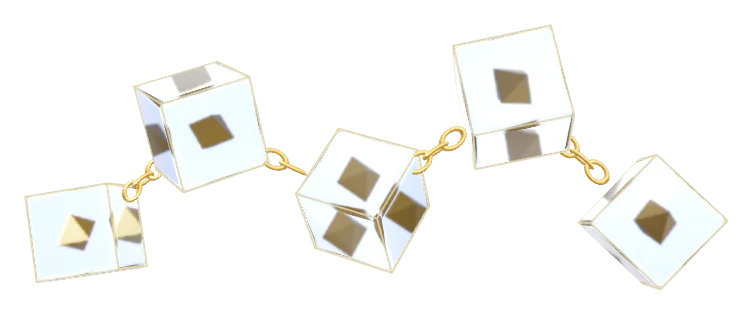
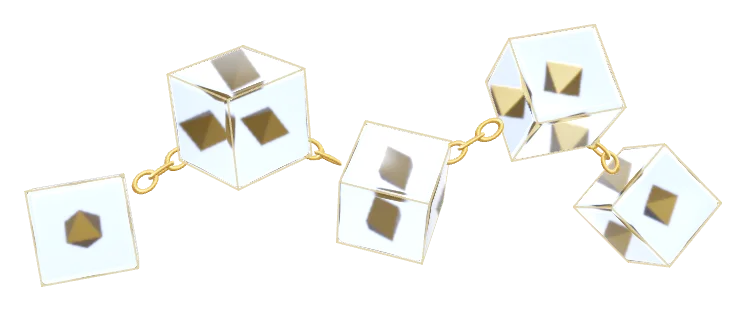
Film polish (no mirrored N in the intro, softer bloom, larger captions), shield glow anchored, stills regenerated
Claude-Session: https://claude.ai/code/session_01MBxK5qE3kLmDt2fofieVqC

Changed region(s): [[0.0308, 0.0579, 0.9866, 0.926], [0.8324, 0.3183, 0.8633, 0.3473]]

diff --git a/src/components/film/FilmCanvas.tsx b/src/components/film/FilmCanvas.tsx
@@ -12,10 +12,10 @@ import { Particles } from "@/components/three/HeroCanvas";
 import { Model, SceneRig, type ModelKey } from "@/components/three/Scene";
 import { BRAND, introSeg, scroll, startIntro } from "@/components/three/runtime";
 
-type Shot = { key: ModelKey | "end"; from: number; to: number; cam: [[number, number, number], [number, number, number]]; kicker?: string; title?: string; sub?: string };
+type Shot = { key: ModelKey | "end"; from: number; to: number; cam: [[number, number, number], [number, number, number]]; look?: number; kicker?: string; title?: string; sub?: string };
 
 export const SHOTS: Shot[] = [
-  { key: "hero", from: 0, to: 6.8, cam: [[-1.4, -0.5, 3.2], [0, 0, 6.6]] },
+  { key: "hero", from: 0, to: 6.8, cam: [[-1.4, -0.5, 3.6], [0, 0, 8.2]], look: -0.55 },
   { key: "blockchain", from: 6.8, to: 10.4, cam: [[1.6, 0.6, 5.2], [-0.3, 0.1, 6.4]], kicker: "Blockchain", title: "Exchanges, ledgers and the chains that bind them", sub: "Spot & P2P exchanges · custody-aware wallets · smart contracts" },
   { key: "security", from: 10.4, to: 14.0, cam: [[-0.6, -0.3, 4.4], [0.4, 0.1, 5.8]], kicker: "Cybersecurity", title: "Secured before it ships", sub: "VAPT · secure architecture · compliance-ready audits" },
   { key: "software", from: 14.0, to: 17.6, cam: [[-1.8, 1.2, 5.6], [0.2, 0.4, 6.6]], kicker: "Custom software", title: "Software shaped around your business", sub: "Web platforms · iOS & Android apps · fintech back offices" },
@@ -43,13 +43,13 @@ function Director({ vertical }: { vertical: boolean }) {
     const [a, b] = shot.cam;
     const zf = vertical ? 1.75 : 1; // narrower frame: pull back
     camera.position.set(a[0] + (b[0] - a[0]) * k, a[1] + (b[1] - a[1]) * k, (a[2] + (b[2] - a[2]) * k) * zf);
-    camera.lookAt(0, shot.key === "end" ? 0.55 : 0, 0);
+    camera.lookAt(0, shot.key === "end" ? 0.55 : (shot.look ?? 0) * k, 0);
     gl.toneMappingExposure = shot.key === "hero" ? 0.05 + 0.95 * introSeg(t, 0, 1.6) : 1;
     if (sweep.current) {
       const local = t - shot.from;
       const s = Math.min(1, Math.max(0, (local - 0.2) / 2.4));
       sweep.current.position.set(-3 + s * 6, 1.4 - s * 1.8, 1.8);
-      sweep.current.intensity = Math.sin(s * Math.PI) * (shot.key === "hero" ? 60 : 38);
+      sweep.current.intensity = Math.sin(s * Math.PI) * (shot.key === "hero" ? 40 : 22);
     }
     if (shot.key === "exchange") scroll.exchange = k;
   });
@@ -105,16 +105,16 @@ function Overlay({ vertical }: { vertical: boolean }) {
       {shot.key === "hero" && (
         <div className={`absolute inset-x-0 bottom-0 flex flex-col items-center ${vertical ? "pb-56" : "pb-20"}`}>
           <p style={rise(4.3)} className={`font-display font-semibold tracking-[0.5em] ${vertical ? "text-5xl" : "text-4xl"}`}>NUVSERA</p>
-          <p style={rise(4.7)} className="mt-4 text-sm tracking-[0.42em] text-gold">TECHNOLOGY PRIVATE LIMITED</p>
+          <p style={rise(4.7)} className="mt-4 text-xl tracking-[0.42em] text-gold">TECHNOLOGY PRIVATE LIMITED</p>
         </div>
       )}
       {shot.title && (
         <div className={`absolute inset-x-0 bottom-0 ${pad} ${vertical ? "text-center" : ""}`}>
-          <p style={rise(0.3)} className={`inline-flex items-center gap-4 text-sm font-semibold uppercase tracking-[0.4em] text-gold ${vertical ? "justify-center" : ""}`}>
+          <p style={rise(0.3)} className={`inline-flex items-center gap-4 text-xl font-semibold uppercase tracking-[0.4em] text-gold ${vertical ? "justify-center" : ""}`}>
             <span className="h-px w-10 bg-gold" /> {shot.kicker}
           </p>
           <h2 style={rise(0.5)} className={`mt-5 font-serif font-medium leading-[1.02] ${vertical ? "text-7xl" : "max-w-5xl text-[5.5rem]"}`}>{shot.title}</h2>
-          <p style={rise(0.8)} className={`mt-6 tracking-wide text-muted ${vertical ? "text-2xl" : "text-2xl"}`}>{shot.sub}</p>
+          <p style={rise(0.8)} className="mt-6 text-3xl tracking-wide text-ivory/70">{shot.sub}</p>
         </div>
       )}
       {shot.key === "end" && (
@@ -122,9 +122,9 @@ function Overlay({ vertical }: { vertical: boolean }) {
           <h2 style={rise(0.4)} className={`font-serif font-medium leading-[1.02] ${vertical ? "text-7xl" : "text-8xl"}`}>
             Technology for <em className="text-gold-gradient">secure digital finance</em>
           </h2>
-          <p style={rise(1.0)} className="mt-8 text-sm uppercase tracking-[0.42em] text-muted">Custom Software · Blockchain · Cybersecurity</p>
+          <p style={rise(1.0)} className="mt-8 text-xl uppercase tracking-[0.42em] text-ivory/70">Custom Software · Blockchain · Cybersecurity</p>
           <p style={rise(1.6)} className={`mt-10 font-serif text-gold-gradient ${vertical ? "text-6xl" : "text-5xl"}`}>+91 97343 33355</p>
-          <p style={rise(1.9)} className="mt-3 text-lg tracking-[0.3em] text-ivory/80">NUVSERATECHNOLOGY.COM · KOLKATA</p>
+          <p style={rise(1.9)} className="mt-4 text-2xl tracking-[0.3em] text-ivory/80">NUVSERATECHNOLOGY.COM · KOLKATA</p>
         </div>
       )}
       <div className="absolute inset-0 bg-navy" style={{ opacity: Math.max(black, tail) }} />
@@ -162,7 +162,7 @@ export default function FilmCanvas({ vertical = false }: { vertical?: boolean })
           <ShotModels />
         </group>
         <EffectComposer multisampling={4}>
-          <Bloom mipmapBlur luminanceThreshold={0.85} luminanceSmoothing={0.2} intensity={0.7} radius={0.7} />
+          <Bloom mipmapBlur luminanceThreshold={0.92} luminanceSmoothing={0.15} intensity={0.42} radius={0.6} />
           <Vignette eskil={false} offset={0.2} darkness={0.7} />
         </EffectComposer>
       </Canvas>

diff --git a/src/components/three/models/Crest.tsx b/src/components/three/models/Crest.tsx
@@ -66,8 +66,9 @@ export function Crest({ quality = "high", interactive = false, scrollKey }: { qu
     const drop = introSeg(it, 2.5, 3.3);
     if (tickRef.current) tickRef.current.rotation.z = (1 - ticksIn) * -Math.PI * 0.75;
     if (nFront.current && nBack.current) {
-      nFront.current.position.z = 0.1 - (1 - nUp) * 0.16;
-      nBack.current.position.z = -0.1 + (1 - nUp) * 0.16;
+      // Rise out of the medallion face; front and back letters never cross (no mirrored "N").
+      nFront.current.position.z = 0.1 - (1 - nUp) * 0.07;
+      nBack.current.position.z = -0.1 + (1 - nUp) * 0.07;
       nFront.current.scale.setScalar(0.82 + nUp * 0.18);
       nBack.current.scale.setScalar(0.82 + nUp * 0.18);
     }

diff --git a/src/components/three/models/Shield.tsx b/src/components/three/models/Shield.tsx
@@ -119,8 +119,8 @@ export function Shield({ quality = "high" }: { quality?: Quality }) {
           <sphereGeometry args={[0.31, 48, 24, 0, Math.PI * 2, 0, Math.PI / 2]} />
           <meshPhysicalMaterial color="#cfe0ff" transparent opacity={0.18} roughness={0.02} metalness={0} clearcoat={1} envMapIntensity={2.5} depthWrite={false} />
         </mesh>
-        <group position={[0, 0, 0.25]}>
-          <Glow color="#3d6bff" scale={1.5} opacity={0.85} />
+        <group position={[0, 0, 0.06]}>
+          <Glow color="#3d6bff" scale={0.95} opacity={0.7} />
         </group>
       </group>
       <pointLight position={[0, 0.1, 0.8]} color={BRAND.blue} intensity={3} distance={3} />
